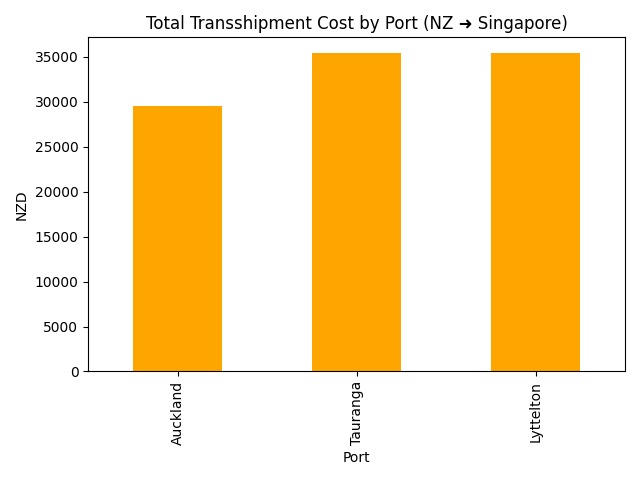
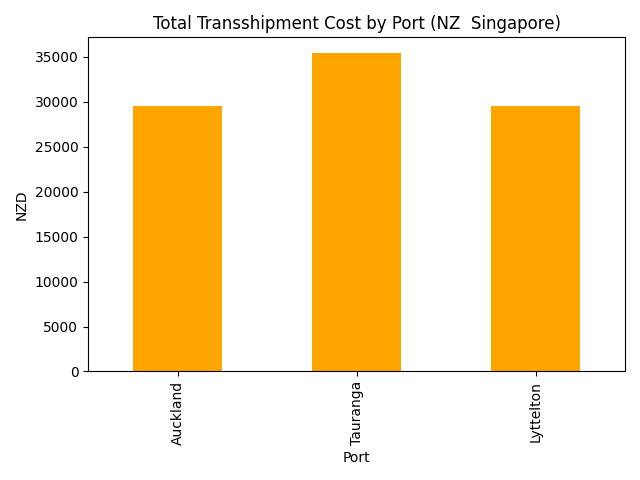
Enhanced dashboard: cost share % + color-coded summary

Changed region(s): [[0.2188, 0.0312, 0.9062, 0.2188]]

diff --git a/docs/index.html b/docs/index.html
@@ -1,8 +1,8 @@
 
 <html>
-<head><title>NZ ➜ Singapore Transshipment Dashboard</title></head>
+<head><title>NZ  Singapore Transshipment Dashboard</title></head>
 <body style='font-family:Arial;text-align:center;background-color:#f9fafc;'>
-<h1>🚢 NZ ➜ Singapore Transshipment Analytics</h1>
+<h1> NZ  Singapore Transshipment Analytics</h1>
 <p>Last updated: 2025-11-01</p>
 
 <img src='cost_chart.png' width='500'>
@@ -22,6 +22,7 @@
       <th>Total_Transshipment_Cost_NZD</th>
       <th>Total_Transshipment_Cost_USD</th>
       <th>Total_Transshipment_Cost_SGD</th>
+      <th>Cost_Share_Percent</th>
     </tr>
   </thead>
   <tbody>
@@ -37,6 +38,7 @@
       <td>29500</td>
       <td>17700.0</td>
       <td>23600.0</td>
+      <td>31.25</td>
     </tr>
     <tr>
       <td>Tauranga</td>
@@ -50,6 +52,7 @@
       <td>35400</td>
       <td>21240.0</td>
       <td>28320.0</td>
+      <td>37.50</td>
     </tr>
     <tr>
       <td>Lyttelton</td>
@@ -58,11 +61,12 @@
       <td>2025-11-01</td>
       <td>Lyttelton</td>
       <td>13.5</td>
-      <td>60</td>
+      <td>50</td>
       <td>590</td>
-      <td>35400</td>
-      <td>21240.0</td>
-      <td>28320.0</td>
+      <td>29500</td>
+      <td>17700.0</td>
+      <td>23600.0</td>
+      <td>31.25</td>
     </tr>
     <tr>
       <td>NaN</td>
@@ -71,25 +75,27 @@
       <td>NaN</td>
       <td style='font-weight:bold;background-color:#fff3cd;'>TOTAL</td>
       <td>NaN</td>
-      <td>170</td>
+      <td>160</td>
       <td></td>
-      <td>100300</td>
-      <td>60180.0</td>
-      <td>80240.0</td>
+      <td>94400</td>
+      <td>56640.0</td>
+      <td>75520.0</td>
+      <td>100.00</td>
     </tr>
   </tbody>
 </table>
 
 <hr style='margin:30px 0;'>
-<div style='display:inline-block;padding:20px;background-color:#fff3cd;border-radius:10px;box-shadow:0 0 5px rgba(0,0,0,0.1);'>
-<h3>📦 Summary</h3>
-<p><b>Total Containers:</b> 170</p>
-<p><b>Total Cost:</b> NZD 100,300 | USD 60,180 | SGD 80,240</p>
+<div style='display:inline-block;padding:20px;background-color:#d4edda;border-radius:10px;box-shadow:0 0 5px rgba(0,0,0,0.1);'>
+<h3> Summary</h3>
+<p><b>Total Containers:</b> 160</p>
+<p><b>Total Cost:</b> NZD 94,400 | USD 56,640 | SGD 75,520</p>
 <p><b>Average Cost per TEU:</b> NZD 590.00</p>
+<p><b>Cost Level:</b>  Low</p>
 </div>
 
 <p style='margin-top:20px;color:gray;font-size:14px;'>
-*Assumes 7-day stay at Singapore PSA — handling + THC + storage + admin ≈ NZD 590 per container.*<br>
+*Assumes 7-day stay at Singapore PSA  handling + THC + storage + admin  NZD 590 per container.*<br>
 *Exchange rates: 1 NZD = 0.6 USD = 0.8 SGD.*
 </p>
 </body></html>

diff --git a/scripts/analyze_transit.py b/scripts/analyze_transit.py
@@ -7,7 +7,7 @@ data_dir, docs_dir = base / "data", base / "docs"
 data_dir.mkdir(exist_ok=True); docs_dir.mkdir(exist_ok=True)
 
 today = datetime.date.today()
-print("📡 Fetching NZ→Singapore transshipment data...")
+print(" Fetching NZSingapore transshipment data...")
 
 api_url = "https://api.portcalls.io/v1/schedules"
 nz_ports = ["NZAKL", "NZTRG", "NZLYT"]
@@ -22,7 +22,7 @@ for port in nz_ports:
         data_json = res.json()
         records += data_json.get("results", [])
     except Exception:
-        print(f"⚠ Using simulated data for {port}.")
+        print(f" Using simulated data for {port}.")
         fallback = {
             "NZAKL": {"origin": "Auckland", "destination": "Singapore", "eta_days": 12.3},
             "NZTRG": {"origin": "Tauranga", "destination": "Singapore", "eta_days": 11.8},
@@ -50,47 +50,53 @@ df["Total_Transshipment_Cost_NZD"] = df["Transshipment_Cost_NZD"] * df["Containe
 df["Total_Transshipment_Cost_USD"] = df["Total_Transshipment_Cost_NZD"] * nzd_to_usd
 df["Total_Transshipment_Cost_SGD"] = df["Total_Transshipment_Cost_NZD"] * nzd_to_sgd
 
+# --- Add Cost Share column ---
+total_cost = df["Total_Transshipment_Cost_NZD"].sum()
+df["Cost_Share_Percent"] = (df["Total_Transshipment_Cost_NZD"] / total_cost * 100).round(2)
+
 # --- Add TOTAL row ---
 total_row = {
     "Port": "TOTAL",
     "Containers": df["Containers"].sum(),
     "Transshipment_Cost_NZD": "",
-    "Total_Transshipment_Cost_NZD": df["Total_Transshipment_Cost_NZD"].sum(),
-    "Total_Transshipment_Cost_USD": df["Total_Transshipment_Cost_USD"].sum(),
-    "Total_Transshipment_Cost_SGD": df["Total_Transshipment_Cost_SGD"].sum()
+    "Total_Transshipment_Cost_NZD": total_cost,
+    "Total_Transshipment_Cost_USD": total_cost * nzd_to_usd,
+    "Total_Transshipment_Cost_SGD": total_cost * nzd_to_sgd,
+    "Cost_Share_Percent": 100.00
 }
 df_total = pd.concat([df, pd.DataFrame([total_row])], ignore_index=True)
 
 # --- Save data ---
 csv_path = data_dir / "nz_to_sg_data.csv"
 df_total.to_csv(csv_path, index=False)
-print(f"✅ Data saved to {csv_path}")
+print(f" Data saved to {csv_path}")
 
 # --- Chart ---
 plt.figure(figsize=(8, 5))
 df.plot(kind="bar", x="Port", y="Total_Transshipment_Cost_NZD", legend=False, color="orange")
-plt.title("Total Transshipment Cost by Port (NZ ➜ Singapore)")
+plt.title("Total Transshipment Cost by Port (NZ  Singapore)")
 plt.ylabel("NZD")
 plt.tight_layout()
 plt.savefig(docs_dir / "cost_chart.png")
 plt.close()
-print("📊 Chart saved.")
+print(" Chart saved.")
+
+# --- Color-coded summary logic ---
+color = "#d4edda" if total_cost < 100000 else "#fff3cd" if total_cost <= 150000 else "#f8d7da"
+color_label = " Low" if total_cost < 100000 else " Moderate" if total_cost <= 150000 else " High"
 
 # --- Dashboard HTML ---
 html_table = df_total.to_html(index=False)
 html_table = html_table.replace("<td>TOTAL</td>", "<td style='font-weight:bold;background-color:#fff3cd;'>TOTAL</td>")
 
 total_containers = int(df["Containers"].sum())
-total_cost_nzd = df["Total_Transshipment_Cost_NZD"].sum()
-total_cost_usd = df["Total_Transshipment_Cost_USD"].sum()
-total_cost_sgd = df["Total_Transshipment_Cost_SGD"].sum()
-avg_cost_per_teu = total_cost_nzd / total_containers
+avg_cost_per_teu = total_cost / total_containers
 
 html = f"""
 <html>
-<head><title>NZ ➜ Singapore Transshipment Dashboard</title></head>
+<head><title>NZ  Singapore Transshipment Dashboard</title></head>
 <body style='font-family:Arial;text-align:center;background-color:#f9fafc;'>
-<h1>🚢 NZ ➜ Singapore Transshipment Analytics</h1>
+<h1> NZ  Singapore Transshipment Analytics</h1>
 <p>Last updated: {today}</p>
 
 <img src='cost_chart.png' width='500'>
@@ -99,15 +105,16 @@ html = f"""
 {html_table}
 
 <hr style='margin:30px 0;'>
-<div style='display:inline-block;padding:20px;background-color:#fff3cd;border-radius:10px;box-shadow:0 0 5px rgba(0,0,0,0.1);'>
-<h3>📦 Summary</h3>
+<div style='display:inline-block;padding:20px;background-color:{color};border-radius:10px;box-shadow:0 0 5px rgba(0,0,0,0.1);'>
+<h3> Summary</h3>
 <p><b>Total Containers:</b> {total_containers}</p>
-<p><b>Total Cost:</b> NZD {total_cost_nzd:,.0f} | USD {total_cost_usd:,.0f} | SGD {total_cost_sgd:,.0f}</p>
+<p><b>Total Cost:</b> NZD {total_cost:,.0f} | USD {total_cost*nzd_to_usd:,.0f} | SGD {total_cost*nzd_to_sgd:,.0f}</p>
 <p><b>Average Cost per TEU:</b> NZD {avg_cost_per_teu:,.2f}</p>
+<p><b>Cost Level:</b> {color_label}</p>
 </div>
 
 <p style='margin-top:20px;color:gray;font-size:14px;'>
-*Assumes 7-day stay at Singapore PSA — handling + THC + storage + admin ≈ NZD {per_container_cost_nzd:.0f} per container.*<br>
+*Assumes 7-day stay at Singapore PSA  handling + THC + storage + admin  NZD {per_container_cost_nzd:.0f} per container.*<br>
 *Exchange rates: 1 NZD = {nzd_to_usd} USD = {nzd_to_sgd} SGD.*
 </p>
 </body></html>"""
@@ -116,4 +123,4 @@ html_path = docs_dir / "index.html"
 with open(html_path, "w", encoding="utf-8") as f:
     f.write(html)
 
-print(f"🌍 Dashboard updated: {html_path}")
+print(f" Dashboard updated: {html_path}")
